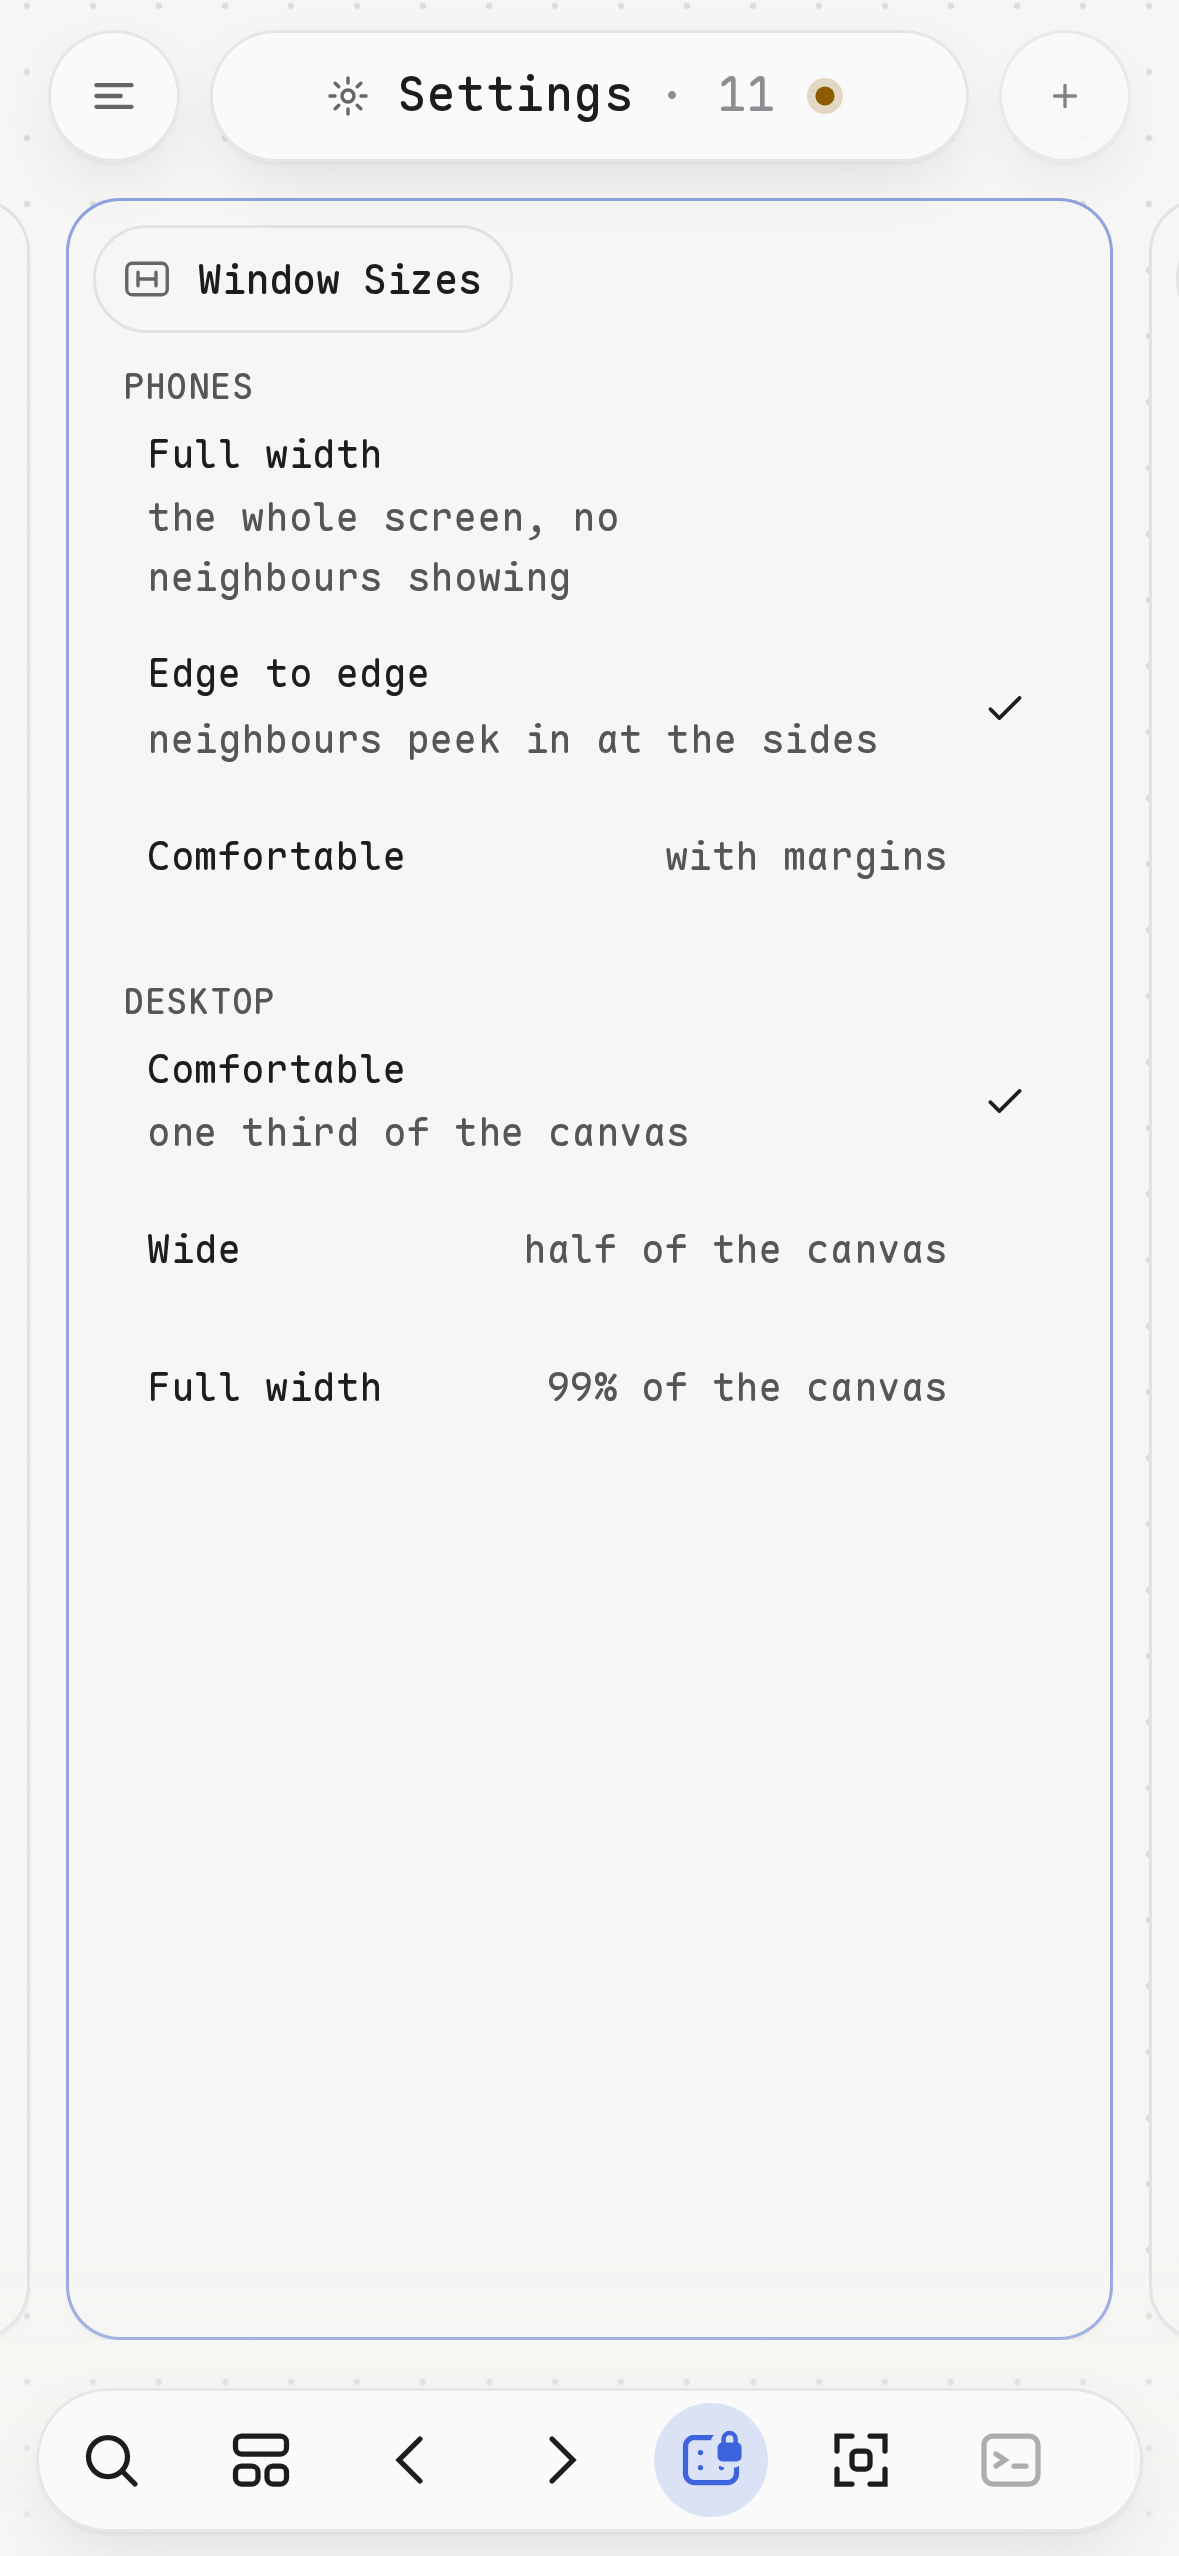
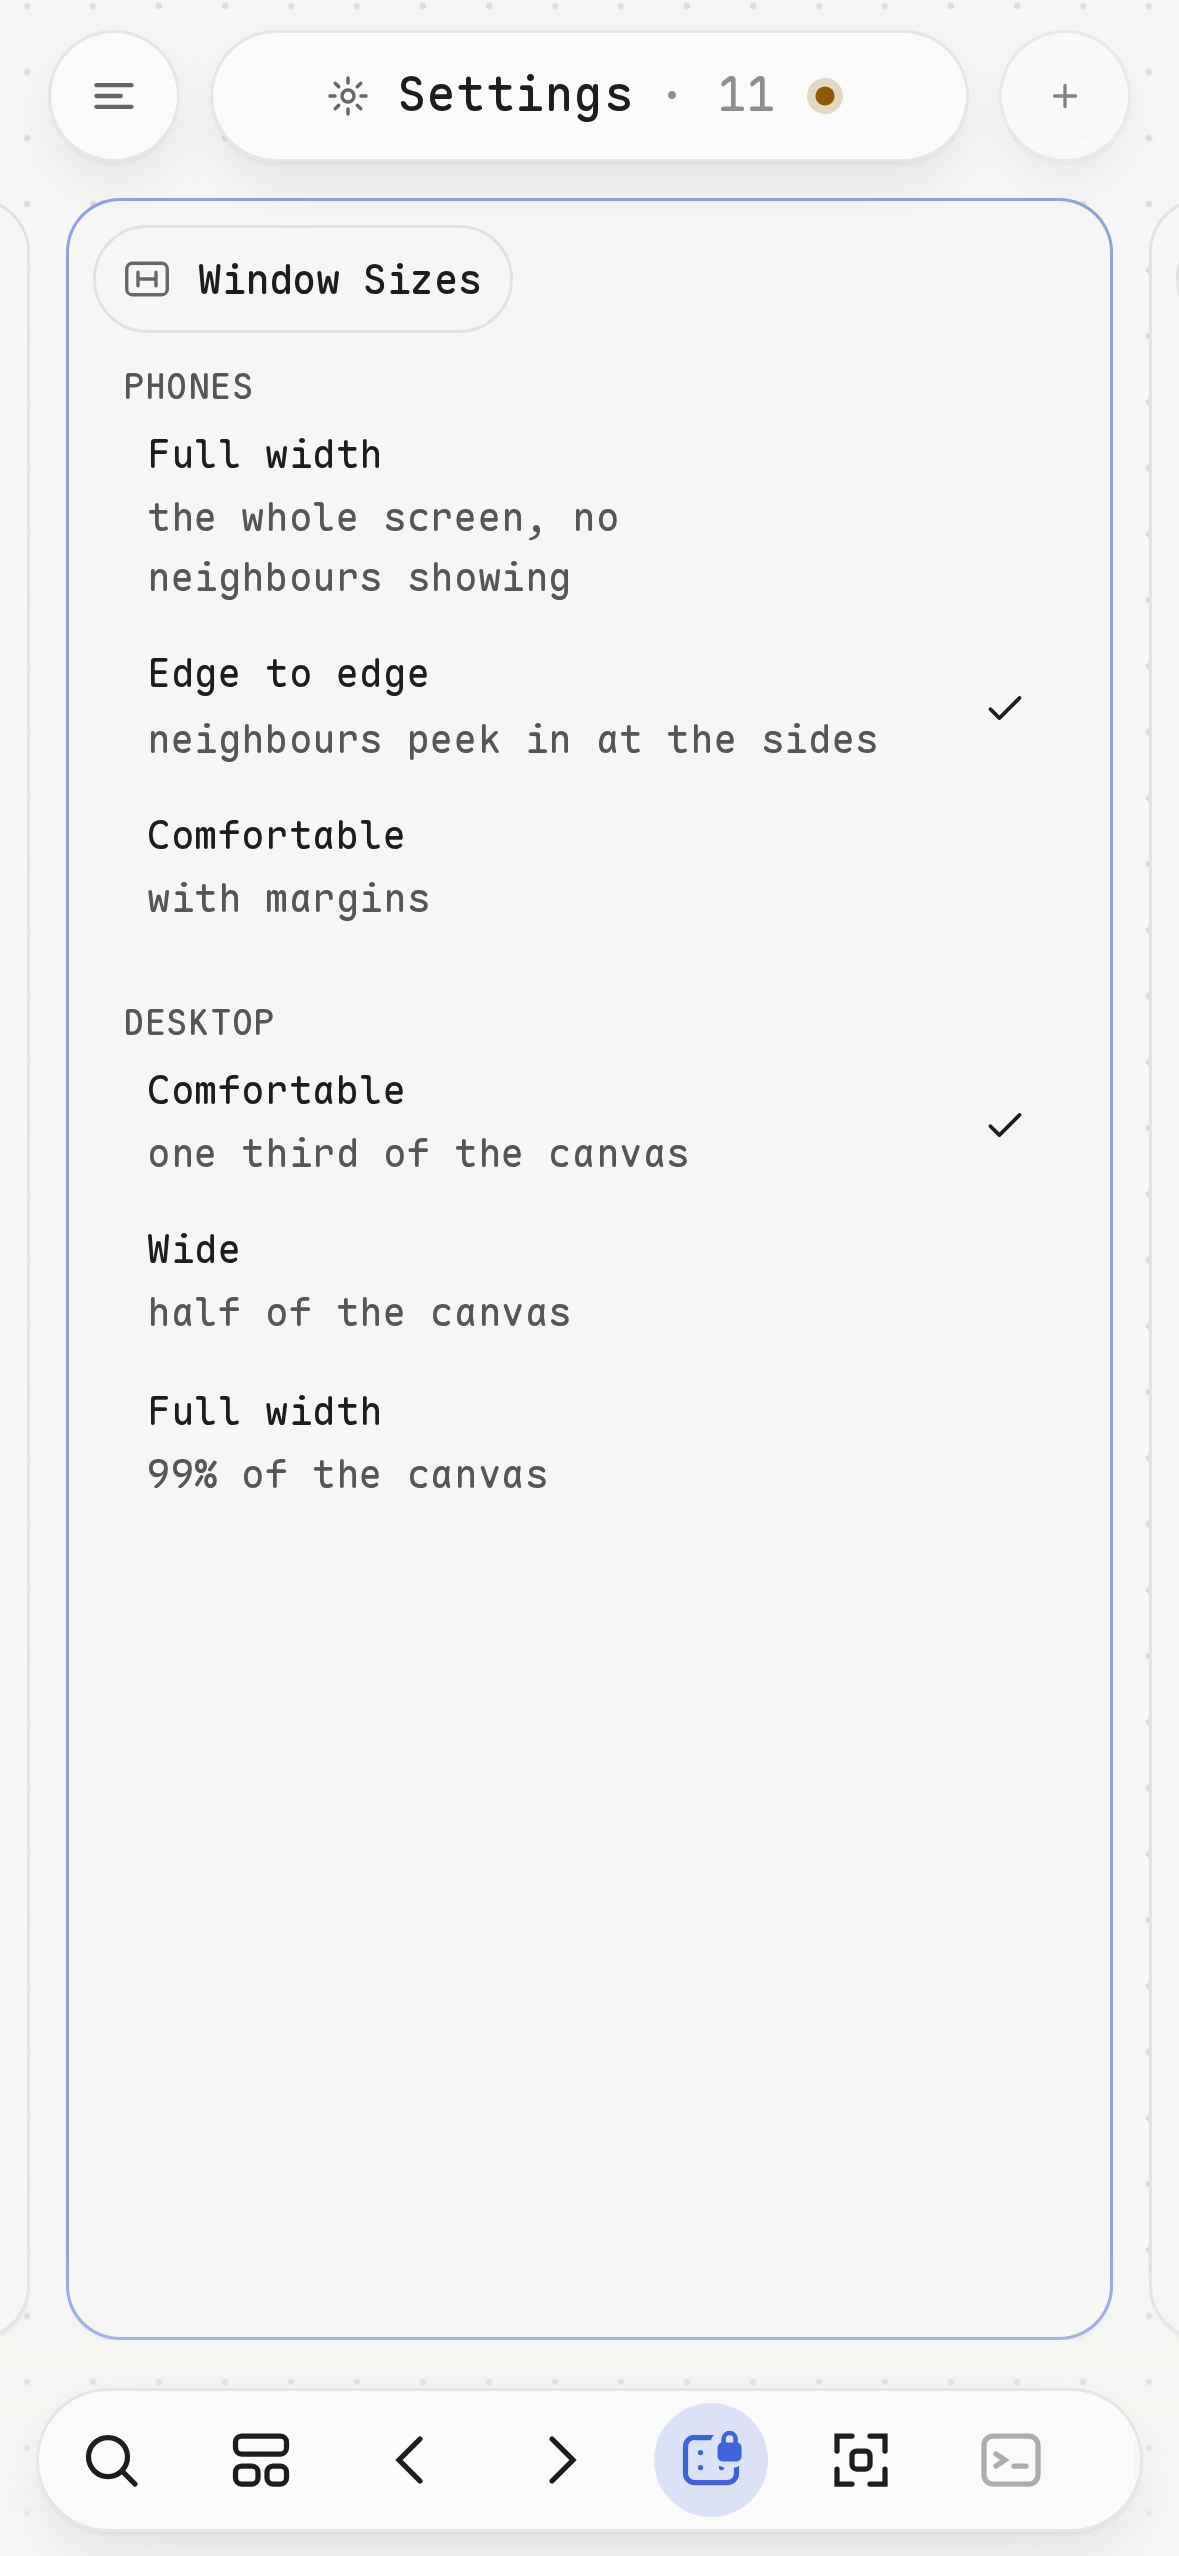
ui: a settings option list places every hint the same way; settings spec checks it is on the right screen (#181)
Review of the previous fix found two problems.

1. Mixed placement inside a list: at 375 px the PHONES list showed stacked hints for
   "Full width" and "Edge to edge" but an inline hint for "Comfortable". A list must
   read as one. Placement is now decided per list, by its widest row: fitHints (in
   packages/ui settings-panels.ts) measures, in the inline layout where the hint is
   nowrap and so reports its natural width, whether name + gap + hint fits any row, and
   sets data-stacked on the list. It runs from a ResizeObserver only when the list's
   width changes (and once fonts are ready), never per frame, and all CSS for the two
   layouts is in styles.css. The list grid is now minmax(0, 1fr) so a long nowrap hint
   can never widen the list past its column (this overflowed 440 px inside a 393 px
   screen before). Desktop lists whose rows all fit (the DESKTOP sizes at 1440) stay
   inline. Rejected: a fixed container-query threshold (blind to text length) and
   per-row decisions (the mixed list this fixes).

2. The spec could pass on the wrong screen (the 393 Window Sizes capture showed the
   Console view). It now retries opening each section and polls until that section's own
   list is inside the screen, asserts the section heading is visible, and asserts every
   hinted row of a list shares one placement, before measuring. Page load retries too.
   Captures re-taken and all 12 opened and read.

Refs TASTE row "Text never collides".
[…]

diff --git a/apps/tracer/test/settings-rows.spec.ts b/apps/tracer/test/settings-rows.spec.ts
@@ -1,7 +1,9 @@
 /**
  * Settings option rows never collide (TASTE: "Text never collides"). In every Settings list that uses the shared choice
  * row (appearance, window sizes) an option's name is one line and never meets its hint, at 375 and 393 px phones and on
- * desktop, in the ink and paper themes. A hint that does not fit beside its name moves under it, left-aligned with the name.
+ * desktop, in the ink and paper themes. A list reads as one: when any row's hint does not fit beside its name, every row of
+ * that list puts the hint under the name, left-aligned with it; otherwise every hint is beside its name. Each section's own
+ * list must be on screen before anything is measured, so the spec cannot pass on the wrong view.
  * Captures land in captures/settings-rows.
  */
 import { expect, test, type Page } from "playwright/test";
@@ -10,7 +12,19 @@ import { resolve } from "node:path";
 
 const captures = resolve(import.meta.dirname, "../captures/settings-rows");
 const SIZES = [{ w: 375, h: 667, touch: true }, { w: 393, h: 852, touch: true }, { w: 1440, h: 900, touch: false }] as const;
-const SECTIONS = ["Appearance", "Window Sizes"] as const;
+/** Each section, the palette words that open it, and a list that proves the section is the one on screen. */
+const SECTIONS = [
+  { name: "Appearance", words: "settings: appearance", list: "Theme" },
+  { name: "Window Sizes", words: "settings: window sizes", list: "Phones" },
+] as const;
+
+/** True when the named list exists and lies inside the screen (its column is the one in view). */
+const listOnScreen = (page: Page, list: string) => page.evaluate((name) => {
+  const n = document.querySelector(`.ui-sp-list[aria-label="${name}"]`);
+  if (!n) return false;
+  const r = n.getBoundingClientRect();
+  return r.left >= 0 && r.right <= innerWidth + 1 && r.top < innerHeight - 40 && r.bottom > 0;
+}, list);
 
 /** Every option row's name and hint geometry, in CSS pixels. */
 const rows = (page: Page) => page.evaluate(() => [...document.querySelectorAll<HTMLElement>(".ui-sp-row .ui-sp-text")].map((t) => {
@@ -19,7 +33,7 @@ const rows = (page: Page) => page.evaluate(() => [...document.querySelectorAll<H
   const line = parseFloat(getComputedStyle(label).lineHeight) || parseFloat(getComputedStyle(label).fontSize) * 1.3;
   const hasHint = hint.textContent !== "";
   return {
-    name: label.textContent!, hint: hint.textContent!, hasHint, labelH: l.height, line, clipped: label.scrollWidth > label.clientWidth + 1,
+    list: t.closest(".ui-sp-list")!.getAttribute("aria-label")!, name: label.textContent!, hint: hint.textContent!, hasHint, labelH: l.height, line, clipped: label.scrollWidth > label.clientWidth + 1,
     overlap: hasHint && l.left < h.right && h.left < l.right && l.top < h.bottom && h.top < l.bottom,
     stacked: hasHint && h.top >= l.bottom - 1, hintLeft: h.left, labelLeft: l.left, rowW: row.width, rowRight: row.right, hintRight: h.right, hintH: h.height,
   };
@@ -31,26 +45,41 @@ for (const theme of ["ink", "paper"]) for (const { w, h, touch } of SIZES) test(
   const context = await browser.newContext({ viewport: { width: w, height: h }, hasTouch: touch, isMobile: touch, deviceScaleFactor: touch ? 3 : 1 });
   const page = await context.newPage();
   try {
-    await page.goto(`/?mock=1&proto=clusters&scene=3&theme=${theme}&bg=none&sessions=0`);
+    // The test double is shared and occasionally slow to hand the canvas its first windows; reload rather than fail on that.
+    for (let attempt = 0; attempt < 3; attempt++) {
+      await page.goto(`/?mock=1&proto=clusters&scene=3&theme=${theme}&bg=none&sessions=0`);
+      if (await page.locator("[data-view='console'] .ui-window").nth(3).waitFor({ timeout: 15_000 }).then(() => true, () => false)) break;
+    }
     await expect(page.locator("[data-view='console'] .ui-window")).toHaveCount(4, { timeout: 20_000 });
     await page.addStyleTag({ content: ".test-double-badge, .cl-mockup, .perf-hud, .ui-toast { display: none !important; }" });
     await page.waitForTimeout(1000);
     for (const section of SECTIONS) {
-      await page.keyboard.press("Control+Shift+K");
-      await page.keyboard.type(`settings: ${section.toLowerCase()}`);
-      await page.keyboard.press("Enter");
-      await expect(page.locator(".ui-sp-row").first()).toBeAttached({ timeout: 10_000 });
-      await page.waitForTimeout(1500);
-      const list = await rows(page);
-      expect(list.length, `${section} has option rows`).toBeGreaterThan(2);
-      for (const r of list) {
-        expect(r.overlap, `${section}/${r.name}: name meets hint`).toBe(false);
-        expect(r.clipped, `${section}/${r.name}: name is clipped`).toBe(false);
-        expect(r.labelH, `${section}/${r.name}: name is one line`).toBeLessThan(r.line * 1.6);
-        if (r.hasHint) expect(r.hintRight, `${section}/${r.name}: hint stays inside the row`).toBeLessThanOrEqual(r.rowRight + 0.5);
-        if (r.stacked) expect(Math.abs(r.hintLeft - r.labelLeft), `${section}/${r.name}: stacked hint aligns with the name`).toBeLessThan(1.5);
+      // The palette can swallow the first keys while the canvas settles; retry until this section's list is on screen.
+      for (let attempt = 0; attempt < 4; attempt++) {
+        await page.keyboard.press("Control+Shift+K");
+        await page.keyboard.type(section.words);
+        await page.keyboard.press("Enter");
+        const onScreen = await expect.poll(() => listOnScreen(page, section.list), { timeout: 5000 }).toBe(true).then(() => true, () => false);
+        if (onScreen) break;
       }
-      await page.screenshot({ path: resolve(captures, `${section.replace(/ /g, "-").toLowerCase()}-${theme}-${w}x${h}.png`) });
+      // Its column is the one in view: the list lies inside the screen and starts above the bottom edge (polled: the view scrolls).
+      await expect.poll(() => listOnScreen(page, section.list), { message: `${section.name}: its list is on screen`, timeout: 10_000 }).toBe(true);
+      await expect(page.locator(`.ui-window:has(.ui-sp-list[aria-label="${section.list}"])`).first().getByText(section.name, { exact: true }).first(), `${section.name}: heading shown`).toBeVisible();
+      const list = await rows(page);
+      expect(list.length, `${section.name} has option rows`).toBeGreaterThan(2);
+      // One decision per list: every row with a hint has it in the same place.
+      for (const name of new Set(list.map((r) => r.list))) {
+        const hinted = list.filter((r) => r.list === name && r.hasHint);
+        expect(new Set(hinted.map((r) => r.stacked)).size, `${section.name}/${name}: hints share one placement`).toBeLessThanOrEqual(1);
+      }
+      for (const r of list) {
+        expect(r.overlap, `${section.name}/${r.name}: name meets hint`).toBe(false);
+        expect(r.clipped, `${section.name}/${r.name}: name is clipped`).toBe(false);
+        expect(r.labelH, `${section.name}/${r.name}: name is one line`).toBeLessThan(r.line * 1.6);
+        if (r.hasHint) expect(r.hintRight, `${section.name}/${r.name}: hint stays inside the row`).toBeLessThanOrEqual(r.rowRight + 0.5);
+        if (r.stacked) expect(Math.abs(r.hintLeft - r.labelLeft), `${section.name}/${r.name}: stacked hint aligns with the name`).toBeLessThan(1.5);
+      }
+      await page.screenshot({ path: resolve(captures, `${section.name.replace(/ /g, "-").toLowerCase()}-${theme}-${w}x${h}.png`) });
     }
   } finally { await context.close(); }
 });

diff --git a/packages/ui/styles.css b/packages/ui/styles.css
@@ -793,18 +793,21 @@
 
 /* Settings windows (settings-panels.ts): choice rows with a tick, device rows, headings; every colour, size and radius is a token. */
 .ui-sp { display: grid; gap: 14px; }
-.ui-sp-list { display: grid; gap: 2px; }
+.ui-sp-list { display: grid; grid-template-columns: minmax(0, 1fr); gap: 2px; }
 .ui-sp-row { display: flex; align-items: center; gap: 10px; width: 100%; min-height: var(--ui-row-h, 32px); padding: 0 8px; border: 0; border-radius: 8px; background: none; color: var(--fg); font: var(--ui-type-label); letter-spacing: var(--ui-tracking); text-align: left; cursor: pointer; transition: background-color 140ms ease, transform 140ms var(--ease-out, ease-out); }
 .ui-sp-row:active { transform: scale(var(--ui-press-scale, 0.97)); }
 @media (hover: hover) and (pointer: fine) { .ui-sp-row:hover { background: var(--hover); } }
 .ui-sp-swatch { position: relative; flex: none; width: 18px; height: 18px; border-radius: 50%; border: 1px solid var(--overlay-line); }
 .ui-sp-swatch::after { content: ""; position: absolute; right: 2px; bottom: 2px; width: 6px; height: 6px; border-radius: 50%; background: var(--dot); }
-/* Name and hint share a wrapping flex line: the name is one unbreakable line, and when the hint does not fit beside it the hint
-   wraps under the name, left-aligned (it may itself wrap to two lines at 375 px). The tick stays centred on the row. */
-.ui-sp-text { display: flex; flex: 1; flex-wrap: wrap; align-items: baseline; column-gap: 10px; row-gap: 1px; min-width: 0; padding: 5px 0; }
+/* Name and hint share a line: the name is one unbreakable line and the hint sits right-aligned beside it. When the list's
+   widest row does not fit (decided per list in fitHints) the list is `data-stacked` and every hint sits under its name,
+   left-aligned, balanced and allowed two lines. The tick stays centred on the row. */
+.ui-sp-text { display: flex; flex: 1; align-items: baseline; column-gap: 10px; min-width: 0; padding: 5px 0; }
 .ui-sp-text .ui-sp-label { flex: none; max-width: 100%; margin-right: auto; white-space: nowrap; overflow: hidden; text-overflow: ellipsis; }
-.ui-sp-text .ui-sp-hint { text-wrap: balance; flex: 0 1 auto; min-width: 0; max-width: 100%; color: var(--ui-text-secondary); }
+.ui-sp-text .ui-sp-hint { flex: none; white-space: nowrap; color: var(--ui-text-secondary); }
 .ui-sp-text .ui-sp-hint:empty { display: none; }
+[data-stacked] > .ui-sp-row .ui-sp-text { flex-direction: column; align-items: flex-start; row-gap: 1px; }
+[data-stacked] > .ui-sp-row .ui-sp-hint { white-space: normal; text-wrap: balance; max-width: 100%; }
 .ui-sp-hint { color: var(--ui-text-secondary); }
 .ui-sp-tick { width: var(--ui-icon, 16px); height: var(--ui-icon, 16px); flex: none; fill: none; stroke: var(--accent); stroke-width: 2; stroke-linecap: round; stroke-linejoin: round; opacity: 0; transform: scale(0.6); transition: opacity 150ms ease, transform 180ms var(--ease-out, ease-out); }
 .ui-sp-row[data-current] .ui-sp-tick { opacity: 1; transform: none; }

diff --git a/packages/ui/src/settings-panels.ts b/packages/ui/src/settings-panels.ts
@@ -52,9 +52,37 @@ function heading(text: string): HTMLElement {
 export interface ChoiceItem { id: string; label: string; hint?: string; swatch?: { bg: string; accent: string } }
 
 /**
+ * Decides once per list, and again only when its width changes (a ResizeObserver callback, never per frame), whether hints
+ * sit beside the names or under them. Measured in the inline layout, where the hint is `nowrap` and so reports its natural
+ * width: the list stacks when any row's name + gap + hint is wider than the room it has. One decision per list keeps every
+ * row's hint in the same place, and a stacked list does not jump when the selection changes.
+ */
+function fitHints(list: HTMLElement): void {
+  let width = -1;
+  const decide = (): void => {
+    if (!list.isConnected) { observer.disconnect(); return; }
+    if (list.clientWidth === 0) return;
+    list.removeAttribute("data-stacked");
+    const stack = [...list.querySelectorAll<HTMLElement>(".ui-sp-text")].some((t) => {
+      const hint = t.querySelector<HTMLElement>(".ui-sp-hint")!;
+      return hint.textContent !== "" && t.querySelector<HTMLElement>(".ui-sp-label")!.offsetWidth + 10 + hint.scrollWidth > t.clientWidth;
+    });
+    if (stack) list.dataset.stacked = "";
+  };
+  const observer = new ResizeObserver(() => {
+    if (list.clientWidth === width) return;
+    width = list.clientWidth;
+    decide();
+  });
+  observer.observe(list);
+  void document.fonts?.ready.then(decide);
+}
+
+/**
  * A titled radio list of rows: a label, an optional quiet subtitle (the technical detail) and a tick on the current one.
- * The name never wraps; when name and hint do not share a line, the hint drops under the name (CSS flex-wrap, see
- * `.ui-sp-text`), so text never collides at any width (TASTE: "Text never collides").
+ * The name never wraps. A list reads as one: if the widest row cannot hold its name and hint on one line, every row of the
+ * list puts its hint under its name (`data-stacked` on the list, see `fitHints`), so text never collides at any width
+ * (TASTE: "Text never collides").
  */
 function choiceBlock(title: string, items: ChoiceItem[], kind: string, current: () => string, pick: (id: string) => void): HTMLElement {
   const block = document.createElement("section");
@@ -78,6 +106,7 @@ function choiceBlock(title: string, items: ChoiceItem[], kind: string, current: 
     list.append(row);
   }
   block.append(list);
+  fitHints(list);
   block.dataset.kind = kind;
   block.dataset.current = current();
   return block;
